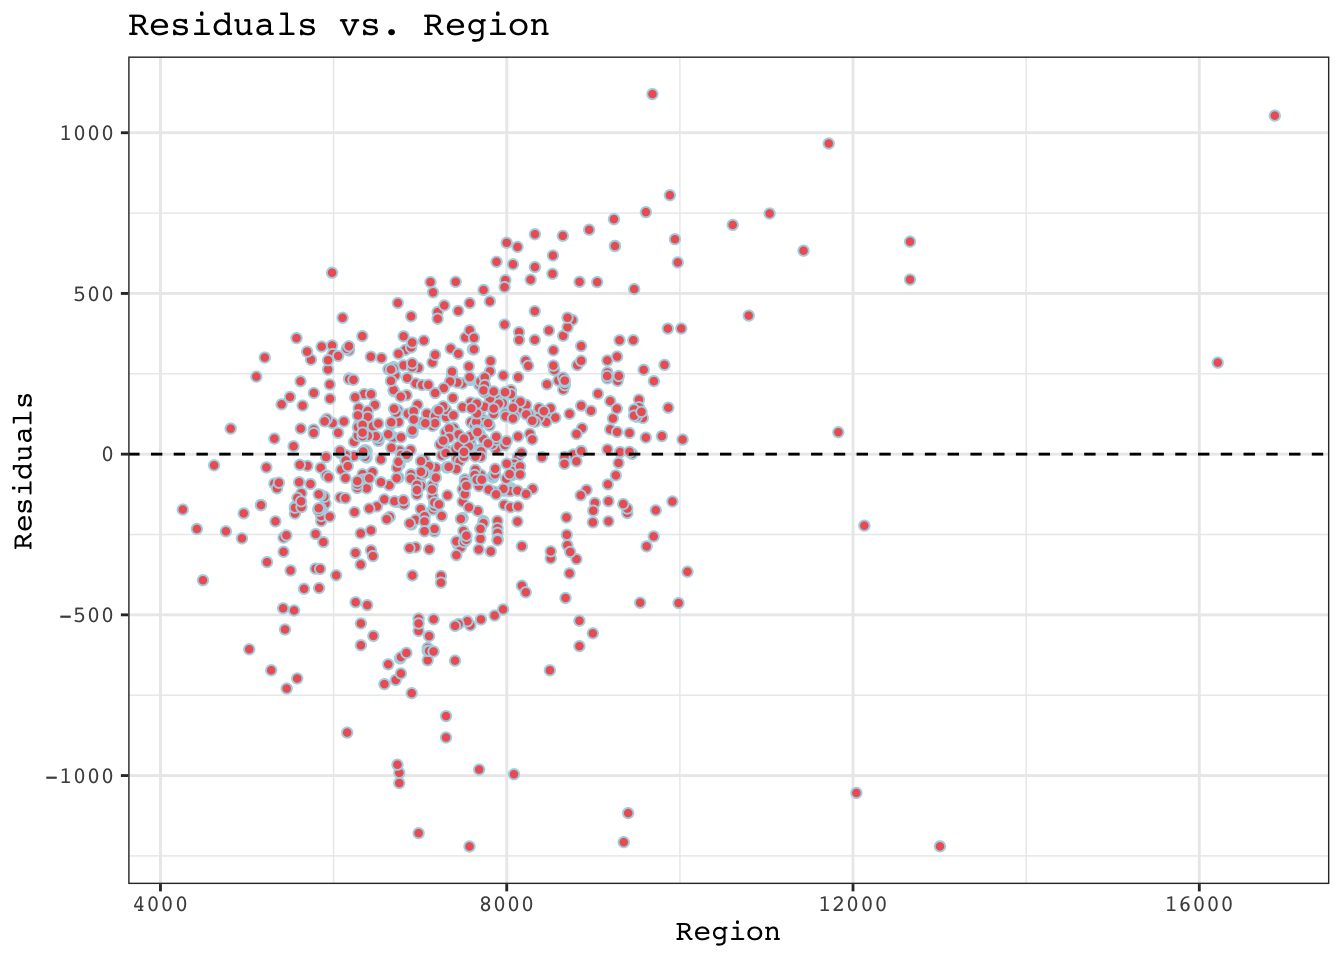
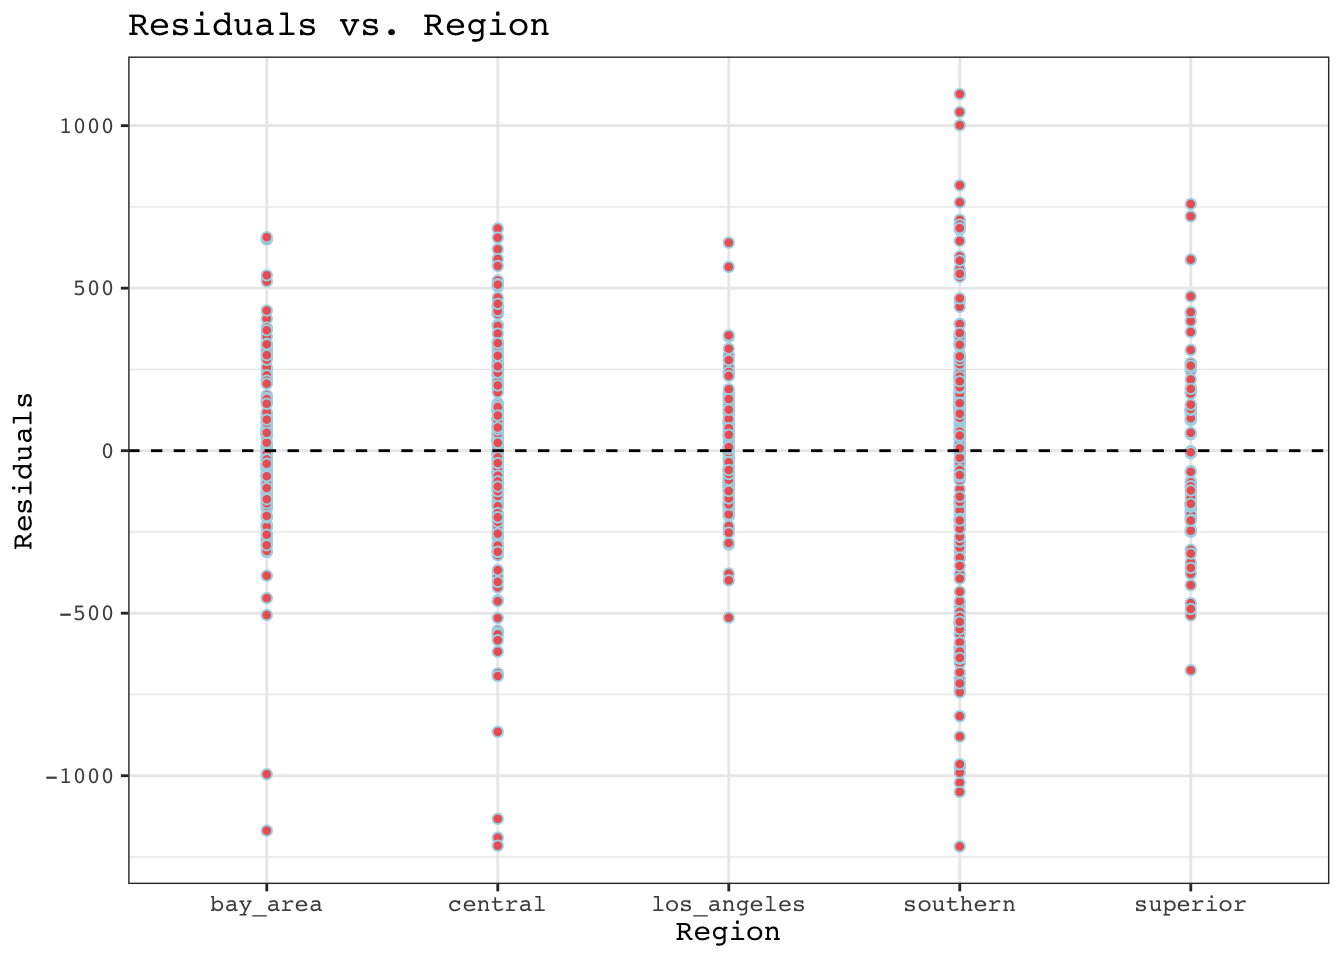
final changes

diff --git a/finalproject.html b/finalproject.html
@@ -6,7 +6,7 @@
 
 <meta name="viewport" content="width=device-width, initial-scale=1.0, user-scalable=yes">
 
-<meta name="dcterms.date" content="2024-12-12">
+<meta name="dcterms.date" content="2024-12-13">
 
 <title>Analysis of food costs in female-headed households</title>
 <style>
@@ -93,7 +93,7 @@ pre > code.sourceCode > span > a:first-child::before { text-decoration: underlin
     <div>
     <div class="quarto-title-meta-heading">Published</div>
     <div class="quarto-title-meta-contents">
-      <p class="date">December 12, 2024</p>
+      <p class="date">December 13, 2024</p>
     </div>
   </div>
   
@@ -394,7 +394,7 @@ pre > code.sourceCode > span > a:first-child::before { text-decoration: underlin
 </section>
 <section id="apply-lm-model-where-independent-variable-is-food-cost-predictors-are-region-avg.-family-size-and-interaction-between-region-and-median-income" class="level4">
 <h4 class="anchored" data-anchor-id="apply-lm-model-where-independent-variable-is-food-cost-predictors-are-region-avg.-family-size-and-interaction-between-region-and-median-income">Apply lm model where independent variable is food cost, predictors are region, avg. family size and interaction between region and median income</h4>
-<div class="sourceCode cell-code" id="cb22"><pre class="sourceCode r code-with-copy"><code class="sourceCode r"><span id="cb22-1"><a href="#cb22-1" aria-hidden="true" tabindex="-1"></a>cost_lm <span class="ot">&lt;-</span> <span class="fu">lm</span>(cost_yr <span class="sc">~</span> region_name <span class="sc">+</span> ave_fam_size <span class="sc">*</span> log_income, <span class="at">data =</span> food)</span>
+<div class="sourceCode cell-code" id="cb22"><pre class="sourceCode r code-with-copy"><code class="sourceCode r"><span id="cb22-1"><a href="#cb22-1" aria-hidden="true" tabindex="-1"></a>cost_lm <span class="ot">&lt;-</span> <span class="fu">lm</span>(cost_yr <span class="sc">~</span> region_name <span class="sc">+</span> ave_fam_size <span class="sc">+</span> log_income, <span class="at">data =</span> food)</span>
 <span id="cb22-2"><a href="#cb22-2" aria-hidden="true" tabindex="-1"></a></span>
 <span id="cb22-3"><a href="#cb22-3" aria-hidden="true" tabindex="-1"></a>cost_lm_summary <span class="ot">&lt;-</span> <span class="fu">tidy</span>(cost_lm) <span class="sc">%&gt;%</span></span>
 <span id="cb22-4"><a href="#cb22-4" aria-hidden="true" tabindex="-1"></a>  <span class="fu">kable</span>(<span class="at">col.names =</span> <span class="fu">c</span>(<span class="st">"Variable"</span>,<span class="st">"Estimate"</span>,<span class="st">"Std.Error"</span>, <span class="st">"Statistic"</span>,<span class="st">"p.value"</span>)) <span class="sc">%&gt;%</span></span>
@@ -428,16 +428,16 @@ p.value
 (Intercept)
 </td>
 <td style="text-align:right;">
--200.95343885
+-683.07828680
 </td>
 <td style="text-align:right;">
-843.31068433
+203.84614735
 </td>
 <td style="text-align:right;">
--0.2382911098
+-3.3509501929
 </td>
 <td style="text-align:right;">
-0.8117278506
+0.0008502920
 </td>
 </tr>
 <tr>
@@ -445,16 +445,16 @@ p.value
 region_namecentral
 </td>
 <td style="text-align:right;">
--114.61939772
+-114.74271928
 </td>
 <td style="text-align:right;">
-38.18551273
+38.16644126
 </td>
 <td style="text-align:right;">
--3.0016461618
+-3.0063772124
 </td>
 <td style="text-align:right;">
-0.0027846437
+0.0027421014
 </td>
 </tr>
 <tr>
@@ -462,13 +462,13 @@ region_namecentral
 region_namelos_angeles
 </td>
 <td style="text-align:right;">
-304.14781073
+304.40080786
 </td>
 <td style="text-align:right;">
-42.90998046
+42.88704622
 </td>
 <td style="text-align:right;">
-7.0880435617
+7.0977331084
 </td>
 <td style="text-align:right;">
 0.0000000000
@@ -479,16 +479,16 @@ region_namelos_angeles
 region_namesouthern
 </td>
 <td style="text-align:right;">
-45.83779841
+46.82024260
 </td>
 <td style="text-align:right;">
-36.08912630
+36.03312128
 </td>
 <td style="text-align:right;">
-1.2701276841
+1.2993668308
 </td>
 <td style="text-align:right;">
-0.2044780968
+0.1942623397
 </td>
 </tr>
 <tr>
@@ -496,16 +496,16 @@ region_namesouthern
 region_namesuperior
 </td>
 <td style="text-align:right;">
--36.31976943
+-34.50069128
 </td>
 <td style="text-align:right;">
-48.29160091
+48.16946143
 </td>
 <td style="text-align:right;">
--0.7520928847
+-0.7162357696
 </td>
 <td style="text-align:right;">
-0.4522581519
+0.4740938609
 </td>
 </tr>
 <tr>
@@ -513,13 +513,13 @@ region_namesuperior
 ave_fam_size
 </td>
 <td style="text-align:right;">
-2031.43026431
+2181.34466242
 </td>
 <td style="text-align:right;">
-255.32685935
+21.25581589
 </td>
 <td style="text-align:right;">
-7.9561949317
+102.6234266281
 </td>
 <td style="text-align:right;">
 0.0000000000
@@ -530,33 +530,16 @@ ave_fam_size
 log_income
 </td>
 <td style="text-align:right;">
-46.66720674
+94.17051461
 </td>
 <td style="text-align:right;">
-82.53575284
+17.65186163
 </td>
 <td style="text-align:right;">
-0.5654180781
+5.3348772269
 </td>
 <td style="text-align:right;">
-0.5719778747
-</td>
-</tr>
-<tr>
-<td style="text-align:left;">
-ave_fam_size:log_income
-</td>
-<td style="text-align:right;">
-14.80448473
-</td>
-<td style="text-align:right;">
-25.12666293
-</td>
-<td style="text-align:right;">
-0.5891942266
-</td>
-<td style="text-align:right;">
-0.5559287083
+0.0000001307
 </td>
 </tr>
 </tbody>
@@ -565,12 +548,12 @@ ave_fam_size:log_income
 <section id="plot-interaction-between-family-size-and-log-income" class="level4">
 <h4 class="anchored" data-anchor-id="plot-interaction-between-family-size-and-log-income">Plot interaction between family size and log income</h4>
 <div class="cell">
-<div class="sourceCode cell-code" id="cb23"><pre class="sourceCode r code-with-copy"><code class="sourceCode r"><span id="cb23-1"><a href="#cb23-1" aria-hidden="true" tabindex="-1"></a>interaction_plot <span class="ot">&lt;-</span> <span class="fu">ggplot</span>(food, <span class="fu">aes</span>(<span class="at">x =</span> ave_fam_size, <span class="at">y =</span> log_income, <span class="at">color =</span> cost_yr)) <span class="sc">+</span></span>
+<div class="sourceCode cell-code" id="cb23"><pre class="sourceCode r code-with-copy"><code class="sourceCode r"><span id="cb23-1"><a href="#cb23-1" aria-hidden="true" tabindex="-1"></a>interaction_plot <span class="ot">&lt;-</span> <span class="fu">ggplot</span>(food, <span class="fu">aes</span>(<span class="at">x =</span> cost_yr, <span class="at">y =</span> region_name, <span class="at">color =</span> log_income)) <span class="sc">+</span></span>
 <span id="cb23-2"><a href="#cb23-2" aria-hidden="true" tabindex="-1"></a>  <span class="fu">geom_point</span>(<span class="at">alpha =</span> <span class="fl">0.5</span>) <span class="sc">+</span></span>
-<span id="cb23-3"><a href="#cb23-3" aria-hidden="true" tabindex="-1"></a>  <span class="fu">labs</span>(<span class="at">title =</span> <span class="st">"Interaction between Family Size and Log Income"</span>,</span>
-<span id="cb23-4"><a href="#cb23-4" aria-hidden="true" tabindex="-1"></a>       <span class="at">x =</span> <span class="st">"Average Family Size"</span>,</span>
-<span id="cb23-5"><a href="#cb23-5" aria-hidden="true" tabindex="-1"></a>       <span class="at">y =</span> <span class="st">"Log of Income"</span>,</span>
-<span id="cb23-6"><a href="#cb23-6" aria-hidden="true" tabindex="-1"></a>       <span class="at">color =</span> <span class="st">"Food Cost"</span>) <span class="sc">+</span></span>
+<span id="cb23-3"><a href="#cb23-3" aria-hidden="true" tabindex="-1"></a>  <span class="fu">labs</span>(<span class="at">title =</span> <span class="st">"Interaction between food cost and region"</span>,</span>
+<span id="cb23-4"><a href="#cb23-4" aria-hidden="true" tabindex="-1"></a>       <span class="at">x =</span> <span class="st">"Food cost"</span>,</span>
+<span id="cb23-5"><a href="#cb23-5" aria-hidden="true" tabindex="-1"></a>       <span class="at">y =</span> <span class="st">"Region"</span>,</span>
+<span id="cb23-6"><a href="#cb23-6" aria-hidden="true" tabindex="-1"></a>       <span class="at">color =</span> <span class="st">"log(income)"</span>) <span class="sc">+</span></span>
 <span id="cb23-7"><a href="#cb23-7" aria-hidden="true" tabindex="-1"></a>  <span class="fu">theme_bw</span>() <span class="sc">+</span></span>
 <span id="cb23-8"><a href="#cb23-8" aria-hidden="true" tabindex="-1"></a>  <span class="fu">theme</span>(<span class="at">text =</span> <span class="fu">element_text</span>(<span class="at">family =</span> <span class="st">"courier"</span>))</span>
 <span id="cb23-9"><a href="#cb23-9" aria-hidden="true" tabindex="-1"></a></span>
@@ -584,7 +567,7 @@ ave_fam_size:log_income
 </div>
 </div>
 <div class="cell">
-<div class="sourceCode cell-code" id="cb24"><pre class="sourceCode r code-with-copy"><code class="sourceCode r"><span id="cb24-1"><a href="#cb24-1" aria-hidden="true" tabindex="-1"></a>residuals <span class="ot">&lt;-</span> <span class="fu">ggplot</span>(<span class="at">data =</span> food, <span class="fu">aes</span>(<span class="at">x =</span> cost_yr, <span class="at">y =</span> <span class="fu">resid</span>(cost_lm))) <span class="sc">+</span></span>
+<div class="sourceCode cell-code" id="cb24"><pre class="sourceCode r code-with-copy"><code class="sourceCode r"><span id="cb24-1"><a href="#cb24-1" aria-hidden="true" tabindex="-1"></a>residuals_region <span class="ot">&lt;-</span> <span class="fu">ggplot</span>(<span class="at">data =</span> food, <span class="fu">aes</span>(<span class="at">x =</span> region_name, <span class="at">y =</span> <span class="fu">resid</span>(cost_lm))) <span class="sc">+</span></span>
 <span id="cb24-2"><a href="#cb24-2" aria-hidden="true" tabindex="-1"></a>  <span class="fu">geom_point</span>(<span class="at">color =</span> <span class="st">"lightblue"</span>,</span>
 <span id="cb24-3"><a href="#cb24-3" aria-hidden="true" tabindex="-1"></a>             <span class="at">fill =</span> <span class="st">"indianred2"</span>,</span>
 <span id="cb24-4"><a href="#cb24-4" aria-hidden="true" tabindex="-1"></a>             <span class="at">shape =</span> <span class="dv">21</span>) <span class="sc">+</span></span>
@@ -595,7 +578,7 @@ ave_fam_size:log_income
 <span id="cb24-9"><a href="#cb24-9" aria-hidden="true" tabindex="-1"></a>  <span class="fu">theme_bw</span>() <span class="sc">+</span></span>
 <span id="cb24-10"><a href="#cb24-10" aria-hidden="true" tabindex="-1"></a>  <span class="fu">theme</span>(<span class="at">text =</span> <span class="fu">element_text</span>(<span class="at">family =</span> <span class="st">"courier"</span>))</span>
 <span id="cb24-11"><a href="#cb24-11" aria-hidden="true" tabindex="-1"></a></span>
-<span id="cb24-12"><a href="#cb24-12" aria-hidden="true" tabindex="-1"></a>residuals</span></code><button title="Copy to Clipboard" class="code-copy-button"><i class="bi"></i></button></pre></div>
+<span id="cb24-12"><a href="#cb24-12" aria-hidden="true" tabindex="-1"></a>residuals_region</span></code><button title="Copy to Clipboard" class="code-copy-button"><i class="bi"></i></button></pre></div>
 <div class="cell-output-display">
 <div>
 <figure class="figure">
@@ -604,6 +587,48 @@ ave_fam_size:log_income
 </div>
 </div>
 <div class="sourceCode cell-code" id="cb25"><pre class="sourceCode r code-with-copy"><code class="sourceCode r"><span id="cb25-1"><a href="#cb25-1" aria-hidden="true" tabindex="-1"></a><span class="co"># variance of error across regions varies </span></span></code><button title="Copy to Clipboard" class="code-copy-button"><i class="bi"></i></button></pre></div>
+</div>
+<div class="cell">
+<div class="sourceCode cell-code" id="cb26"><pre class="sourceCode r code-with-copy"><code class="sourceCode r"><span id="cb26-1"><a href="#cb26-1" aria-hidden="true" tabindex="-1"></a>residuals_cost <span class="ot">&lt;-</span> <span class="fu">ggplot</span>(<span class="at">data =</span> food, <span class="fu">aes</span>(<span class="at">x =</span> cost_yr, <span class="at">y =</span> <span class="fu">resid</span>(cost_lm))) <span class="sc">+</span></span>
+<span id="cb26-2"><a href="#cb26-2" aria-hidden="true" tabindex="-1"></a>  <span class="fu">geom_point</span>(<span class="at">color =</span> <span class="st">"lightblue"</span>,</span>
+<span id="cb26-3"><a href="#cb26-3" aria-hidden="true" tabindex="-1"></a>             <span class="at">fill =</span> <span class="st">"indianred2"</span>,</span>
+<span id="cb26-4"><a href="#cb26-4" aria-hidden="true" tabindex="-1"></a>             <span class="at">shape =</span> <span class="dv">21</span>) <span class="sc">+</span></span>
+<span id="cb26-5"><a href="#cb26-5" aria-hidden="true" tabindex="-1"></a>  <span class="fu">geom_hline</span>(<span class="at">yintercept =</span> <span class="dv">0</span>, <span class="at">linetype =</span> <span class="st">"dashed"</span>, <span class="at">color =</span> <span class="st">"black"</span>) <span class="sc">+</span>  <span class="co"># Reference line at 0</span></span>
+<span id="cb26-6"><a href="#cb26-6" aria-hidden="true" tabindex="-1"></a>  <span class="fu">labs</span>(<span class="at">title =</span> <span class="st">"Residuals vs. Food Cost"</span>,</span>
+<span id="cb26-7"><a href="#cb26-7" aria-hidden="true" tabindex="-1"></a>       <span class="at">x =</span> <span class="st">"Food Cost"</span>,</span>
+<span id="cb26-8"><a href="#cb26-8" aria-hidden="true" tabindex="-1"></a>       <span class="at">y =</span> <span class="st">"Residuals"</span>) <span class="sc">+</span></span>
+<span id="cb26-9"><a href="#cb26-9" aria-hidden="true" tabindex="-1"></a>  <span class="fu">theme_bw</span>() <span class="sc">+</span></span>
+<span id="cb26-10"><a href="#cb26-10" aria-hidden="true" tabindex="-1"></a>  <span class="fu">theme</span>(<span class="at">text =</span> <span class="fu">element_text</span>(<span class="at">family =</span> <span class="st">"courier"</span>))</span>
+<span id="cb26-11"><a href="#cb26-11" aria-hidden="true" tabindex="-1"></a></span>
+<span id="cb26-12"><a href="#cb26-12" aria-hidden="true" tabindex="-1"></a>residuals_cost</span></code><button title="Copy to Clipboard" class="code-copy-button"><i class="bi"></i></button></pre></div>
+<div class="cell-output-display">
+<div>
+<figure class="figure">
+<p><img src="finalproject_files/figure-html/unnamed-chunk-15-1.png" class="img-fluid figure-img" width="672"></p>
+</figure>
+</div>
+</div>
+</div>
+<div class="cell">
+<div class="sourceCode cell-code" id="cb27"><pre class="sourceCode r code-with-copy"><code class="sourceCode r"><span id="cb27-1"><a href="#cb27-1" aria-hidden="true" tabindex="-1"></a>residuals_cost <span class="ot">&lt;-</span> <span class="fu">ggplot</span>(<span class="at">data =</span> food, <span class="fu">aes</span>(<span class="at">x =</span> log_income, <span class="at">y =</span> <span class="fu">resid</span>(cost_lm))) <span class="sc">+</span></span>
+<span id="cb27-2"><a href="#cb27-2" aria-hidden="true" tabindex="-1"></a>  <span class="fu">geom_point</span>(<span class="at">color =</span> <span class="st">"lightblue"</span>,</span>
+<span id="cb27-3"><a href="#cb27-3" aria-hidden="true" tabindex="-1"></a>             <span class="at">fill =</span> <span class="st">"indianred2"</span>,</span>
+<span id="cb27-4"><a href="#cb27-4" aria-hidden="true" tabindex="-1"></a>             <span class="at">shape =</span> <span class="dv">21</span>) <span class="sc">+</span></span>
+<span id="cb27-5"><a href="#cb27-5" aria-hidden="true" tabindex="-1"></a>  <span class="fu">geom_hline</span>(<span class="at">yintercept =</span> <span class="dv">0</span>, <span class="at">linetype =</span> <span class="st">"dashed"</span>, <span class="at">color =</span> <span class="st">"black"</span>) <span class="sc">+</span>  <span class="co"># Reference line at 0</span></span>
+<span id="cb27-6"><a href="#cb27-6" aria-hidden="true" tabindex="-1"></a>  <span class="fu">labs</span>(<span class="at">title =</span> <span class="st">"Residuals vs. log(income)"</span>,</span>
+<span id="cb27-7"><a href="#cb27-7" aria-hidden="true" tabindex="-1"></a>       <span class="at">x =</span> <span class="st">"log(income)"</span>,</span>
+<span id="cb27-8"><a href="#cb27-8" aria-hidden="true" tabindex="-1"></a>       <span class="at">y =</span> <span class="st">"Residuals"</span>) <span class="sc">+</span></span>
+<span id="cb27-9"><a href="#cb27-9" aria-hidden="true" tabindex="-1"></a>  <span class="fu">theme_bw</span>() <span class="sc">+</span></span>
+<span id="cb27-10"><a href="#cb27-10" aria-hidden="true" tabindex="-1"></a>  <span class="fu">theme</span>(<span class="at">text =</span> <span class="fu">element_text</span>(<span class="at">family =</span> <span class="st">"courier"</span>))</span>
+<span id="cb27-11"><a href="#cb27-11" aria-hidden="true" tabindex="-1"></a></span>
+<span id="cb27-12"><a href="#cb27-12" aria-hidden="true" tabindex="-1"></a>residuals_cost</span></code><button title="Copy to Clipboard" class="code-copy-button"><i class="bi"></i></button></pre></div>
+<div class="cell-output-display">
+<div>
+<figure class="figure">
+<p><img src="finalproject_files/figure-html/unnamed-chunk-16-1.png" class="img-fluid figure-img" width="672"></p>
+</figure>
+</div>
+</div>
 </div>
 <!-- High level of multicollinearity between region and food cost, and between region and median_income but when adjusted for degrees of freedom, not severe enough to drop the predictors with the high VIF -->
 <!-- # classify counties by region to make 5 level categorical variable -->
